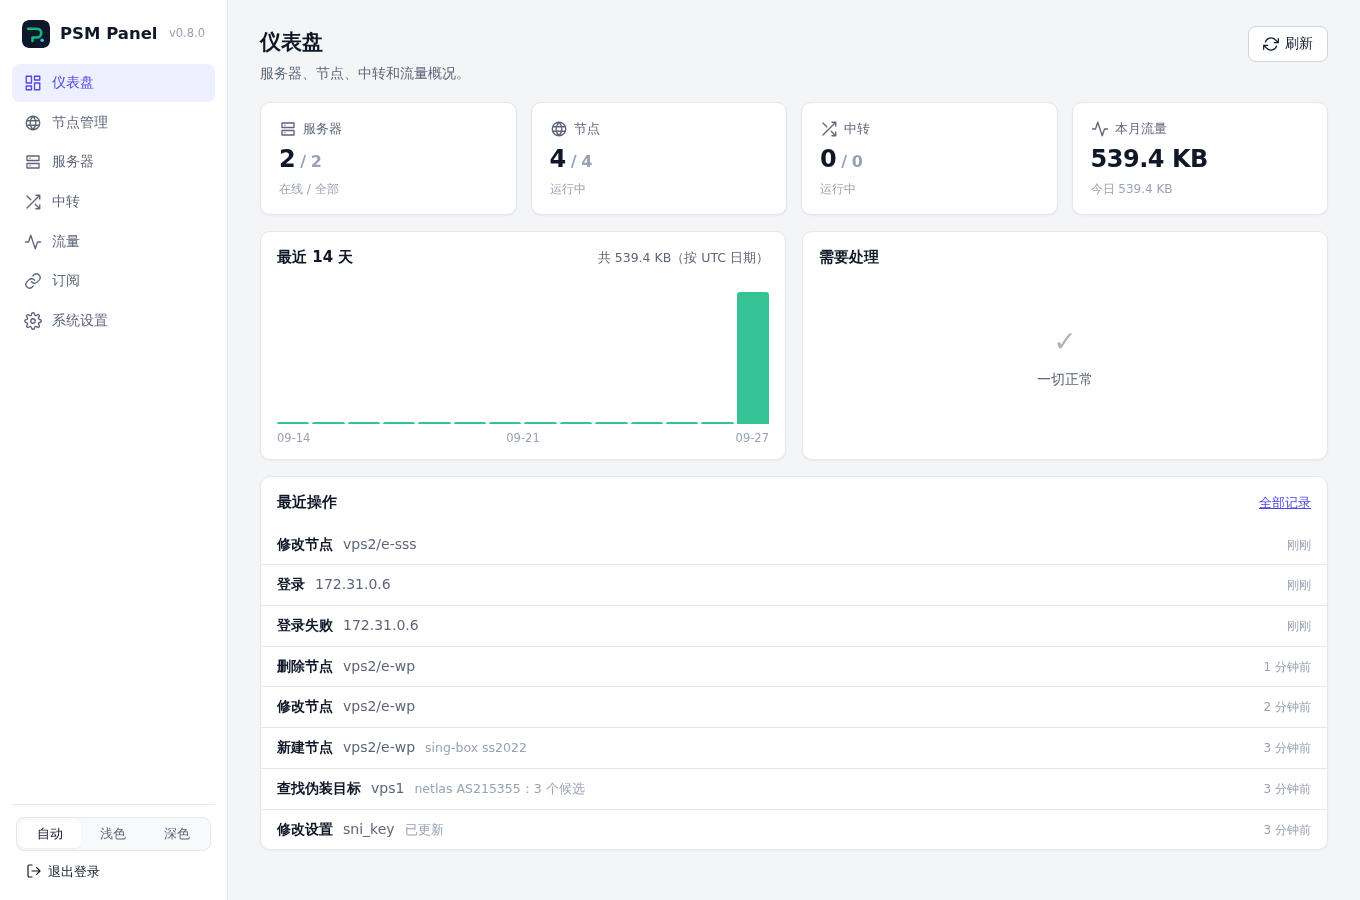
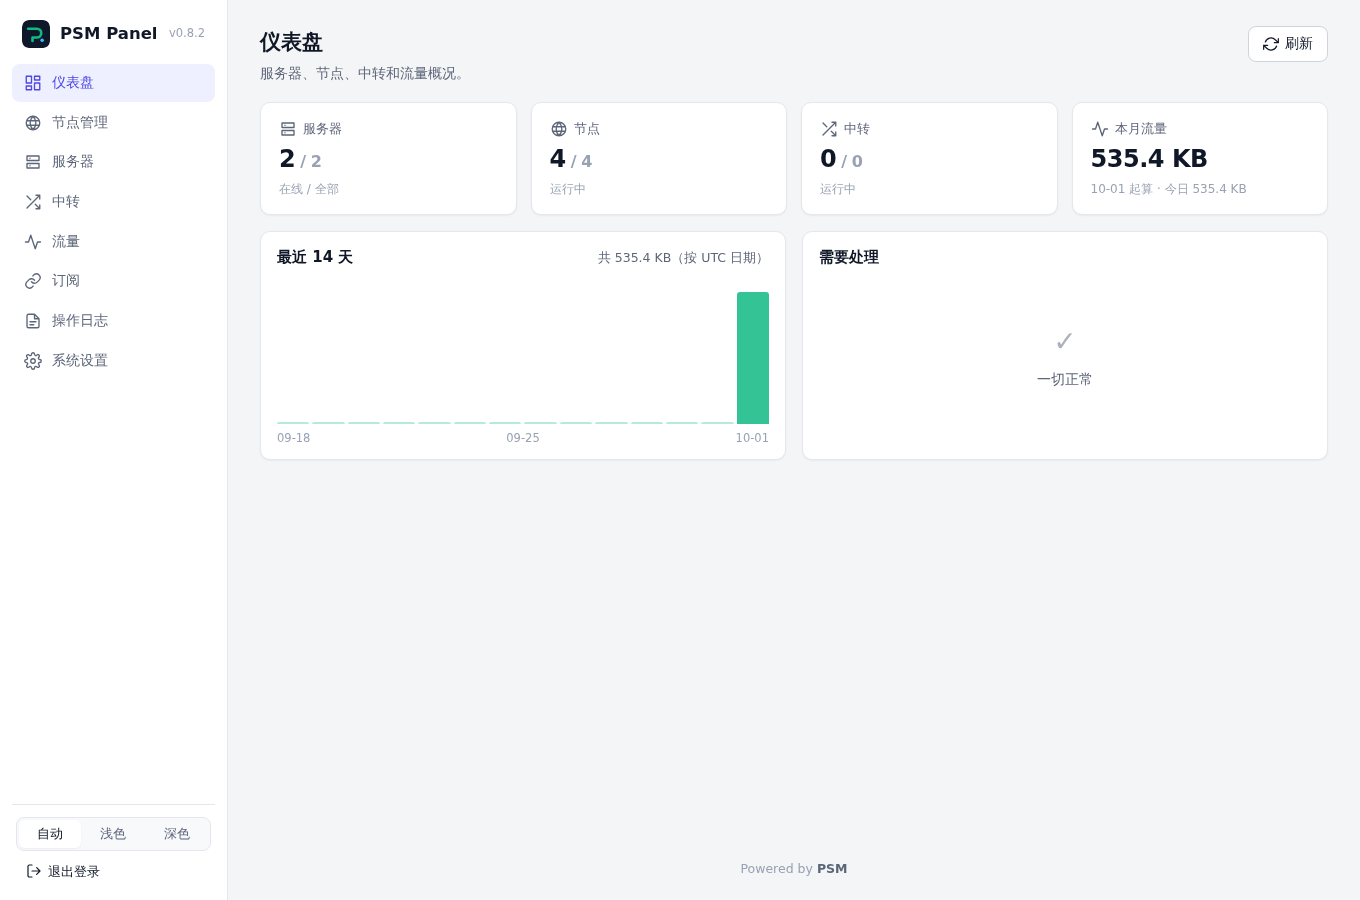
操作日志 has its own page; where 本月 starts
Panel 0.8.2 moves the audit log out of the settings and the dashboard into
操作日志 in the menu, and says on the traffic card and charts that 本月
counts from the reset day, last month's days drawn faint. New pictures of
the dashboard, the settings, the traffic page and 操作日志.

diff --git a/docs/guide/servers.md b/docs/guide/servers.md
@@ -40,7 +40,7 @@
 
 点它之后，那台服务器依次做三件事：更新 PSM（要装哪个 psm-agent 版本写在 PSM 里，所以顺序不能反）、按发布页的 SHA256SUMS 校验并替换 psm-agent、重启服务。节点、中转和流量统计都不受影响，转发不会中断。
 
-psm-agent 会**先把结果报给面板，再动手**——它重启的是自己，晚一步就没人能报告了。所以操作记录里的成功只表示"升级已开始"；真正完成的标志是 Agent 列在下一次同步后变成新版本，通常十几秒。万一失败，在服务器上执行 `psm agent upgrade` 能看到原因。
+psm-agent 会**先把结果报给面板，再动手**——它重启的是自己，晚一步就没人能报告了。所以操作日志里的成功只表示"升级已开始"；真正完成的标志是 Agent 列在下一次同步后变成新版本，通常十几秒。万一失败，在服务器上执行 `psm agent upgrade` 能看到原因。
 
 离线的服务器没有这个按钮（任务只会一直排队）。手工的办法仍然可用：生成安装命令执行一次，或在服务器上直接执行 `psm agent upgrade`。
 
@@ -58,7 +58,7 @@ psm-agent 已经是最新版时，⋯ 菜单里是 **更新 PSM**：服务器把
 
 ⋯ → **移除**（在线的服务器要输入它的名称确认）：
 
-- **在线的服务器**：状态变成"卸载中"，psm-agent 在服务器上删除所有由面板建的节点、独立安装的 Snell / ss-rust **和中转规则**，把结果报给面板，然后卸载自己（服务、程序和配置都删掉）。完成后服务器从列表消失，操作记录里写着删掉了什么。它是某条隧道的**出口**时，那条隧道在入口服务器上的规则也一起删除。**PSM 本身、内核和你在服务器命令行里建的节点会保留。**
+- **在线的服务器**：状态变成"卸载中"，psm-agent 在服务器上删除所有由面板建的节点、独立安装的 Snell / ss-rust **和中转规则**，把结果报给面板，然后卸载自己（服务、程序和配置都删掉）。完成后服务器从列表消失，操作日志里写着删掉了什么。它是某条隧道的**出口**时，那条隧道在入口服务器上的规则也一起删除。**PSM 本身、内核和你在服务器命令行里建的节点会保留。**
 - **离线的服务器**（或一直停在"卸载中"）：只能从面板移除，服务器上的节点、中转和 psm-agent 保留。之后在服务器上执行 `psm agent remove --yes` 卸载 psm-agent；节点用 `psm` 菜单或 `psm node delete` 删除，中转用 `psm relay delete` 删除。
 - **还没接入的服务器**：直接删除。
 

diff --git a/docs/guide/security.md b/docs/guide/security.md
@@ -28,6 +28,6 @@
 - 节点的协议参数（密码、密钥）、客户端链接、下发的任务、订阅令牌、安装命令的令牌、中转隧道的密码、服务器的诊断报告，在 D1 里都用 AES-GCM 加密保存。
 - agent 令牌、加入令牌、订阅令牌的查找都用哈希；数据库里没有明文令牌。
 - **加密密钥放在哪**：一键部署时面板自己生成密钥并存在 D1 里——和它加密的数据在一起，拿到数据库导出就能解开。系统设置里能看到密钥的位置，并按步骤把它挪进 Cloudflare 机密 `TOKEN_KEY`，再删掉 D1 里的副本，见 [系统设置 · 数据加密密钥](./settings#数据加密密钥)。
-- 旧数据会自动清理：完成的任务保留 14 天，中转测量 7 天，每日流量 400 天，操作记录 180 天。
+- 旧数据会自动清理：完成的任务保留 14 天，中转测量 7 天，每日流量 400 天，操作日志 180 天。
 - Worker 默认开启 Workers Logs（Cloudflare 控制台里只有你自己能看），请求日志会记下访问的地址，订阅地址里的令牌也在其中。不希望这样时，把 `wrangler.jsonc` 里的 `observability.enabled` 改成 `false`。订阅地址泄露时在面板上重置即可。
 - 仓库里没有任何密钥；密钥只在你自己 Cloudflare 账号的 Worker 机密里（或按上面说的，暂时在 D1 里）。

diff --git a/docs/guide/settings.md b/docs/guide/settings.md
@@ -1,4 +1,4 @@
-# 系统设置和操作记录
+# 系统设置
 
 ![系统设置](/images/settings.png)
 
@@ -19,7 +19,7 @@
 
 把密钥挪进机密：
 
-1. 在这里输入管理员密码，点 **查看密钥**（这次查看会记进操作记录）。
+1. 在这里输入管理员密码，点 **查看密钥**（这次查看会记进 [操作日志](./audit)）。
 2. Cloudflare 控制台 → 这个 Worker → 设置 → 变量和机密 → 添加**机密** `TOKEN_KEY`，值就是这把密钥，一字不差。
 3. 部署生效后回到这里，标记变成"机密里也有了"，点 **删除数据库里的副本**（要输入 `TOKEN_KEY` 确认）。
 
@@ -36,7 +36,3 @@
 ## 运行信息
 
 面板版本、它期望的 psm-agent 版本、服务器同步间隔（Worker 变量 `SYNC_INTERVAL`）和源代码地址。左下角可以切换浅色、深色或跟随系统的外观。
-
-## 操作记录
-
-按时间倒序，每次 30 条，**加载更多** 往前翻；可以按登录、服务器、节点、中转、订阅、设置、模板筛选。记录的有：登录（包括失败的尝试和来源地址）和退出、服务器的添加 / 移除 / 接入 / 诊断 / 升级、重新生成安装命令、节点和中转的增删改、重置流量、订阅和模板的增删改、设置修改、查看加密密钥。操作记录保留 180 天。

diff --git a/docs/guide/traffic.md b/docs/guide/traffic.md
@@ -4,8 +4,8 @@
 
 每台服务器统计自己节点的流量（Xray 节点用 Xray 的统计接口，其余节点用 iptables 计数），psm-agent 每 10 分钟把数字发给面板。**流量** 页显示：
 
-- 本月总流量、今日流量、超额暂停的节点数；
-- 最近 30 天每天的流量（鼠标移到柱子上看当天的数字）；
+- 本月总流量（从重置日起算，卡片上写着从哪天算起）、今日流量、超额暂停的节点数；
+- 最近 30 天每天的流量（鼠标移到柱子上看当天的数字）。重置日之前的柱子是浅色的：那是上个月的流量，已经清零，不计入本月。仪表盘的“最近 14 天”也一样；
 - 每个节点本月已用、上限、用量条、重置日、状态和多久以前更新的；可以搜索，点表头排序。
 
 点 **立即刷新** 让所有服务器马上发一次（几秒后更新）。

diff --git a/docs/guide/what-is.md b/docs/guide/what-is.md
@@ -9,7 +9,7 @@ PSM Panel 是 [PSM（Proxy Stack Manager）](https://github.com/jinqians/proxy-s
 - 看每台服务器是否在线、装了哪些内核、`psm doctor` 的检查结果；
 - 看每个节点的流量，给节点设流量上限；
 - 把所有服务器的节点汇总成一个订阅地址；
-- 仪表盘上一眼看到在线的服务器、失败或暂停的节点和中转、最近的操作；深色模式，手机上也能用。
+- 仪表盘上一眼看到在线的服务器、失败或暂停的节点和中转、本月流量；每次操作都记在操作日志里；深色模式，手机上也能用。
 
 ## 工作方式
 

diff --git a/docs/guide/audit.md b/docs/guide/audit.md
@@ -1,0 +1,9 @@
+# 操作日志
+
+![操作日志](/images/audit.png)
+
+菜单里的 **操作日志** 记下面板上发生的每一件事，按时间倒序，每次 30 条，**加载更多** 往前翻；可以按登录、服务器、节点、中转、订阅、设置、模板筛选。
+
+记录的有：登录（包括失败的尝试和来源地址）和退出、服务器的添加 / 移除 / 接入 / 诊断 / 升级、重新生成安装命令、节点和中转的增删改、重置流量、订阅和模板的增删改、设置修改、查看加密密钥。
+
+操作日志保留 180 天。
